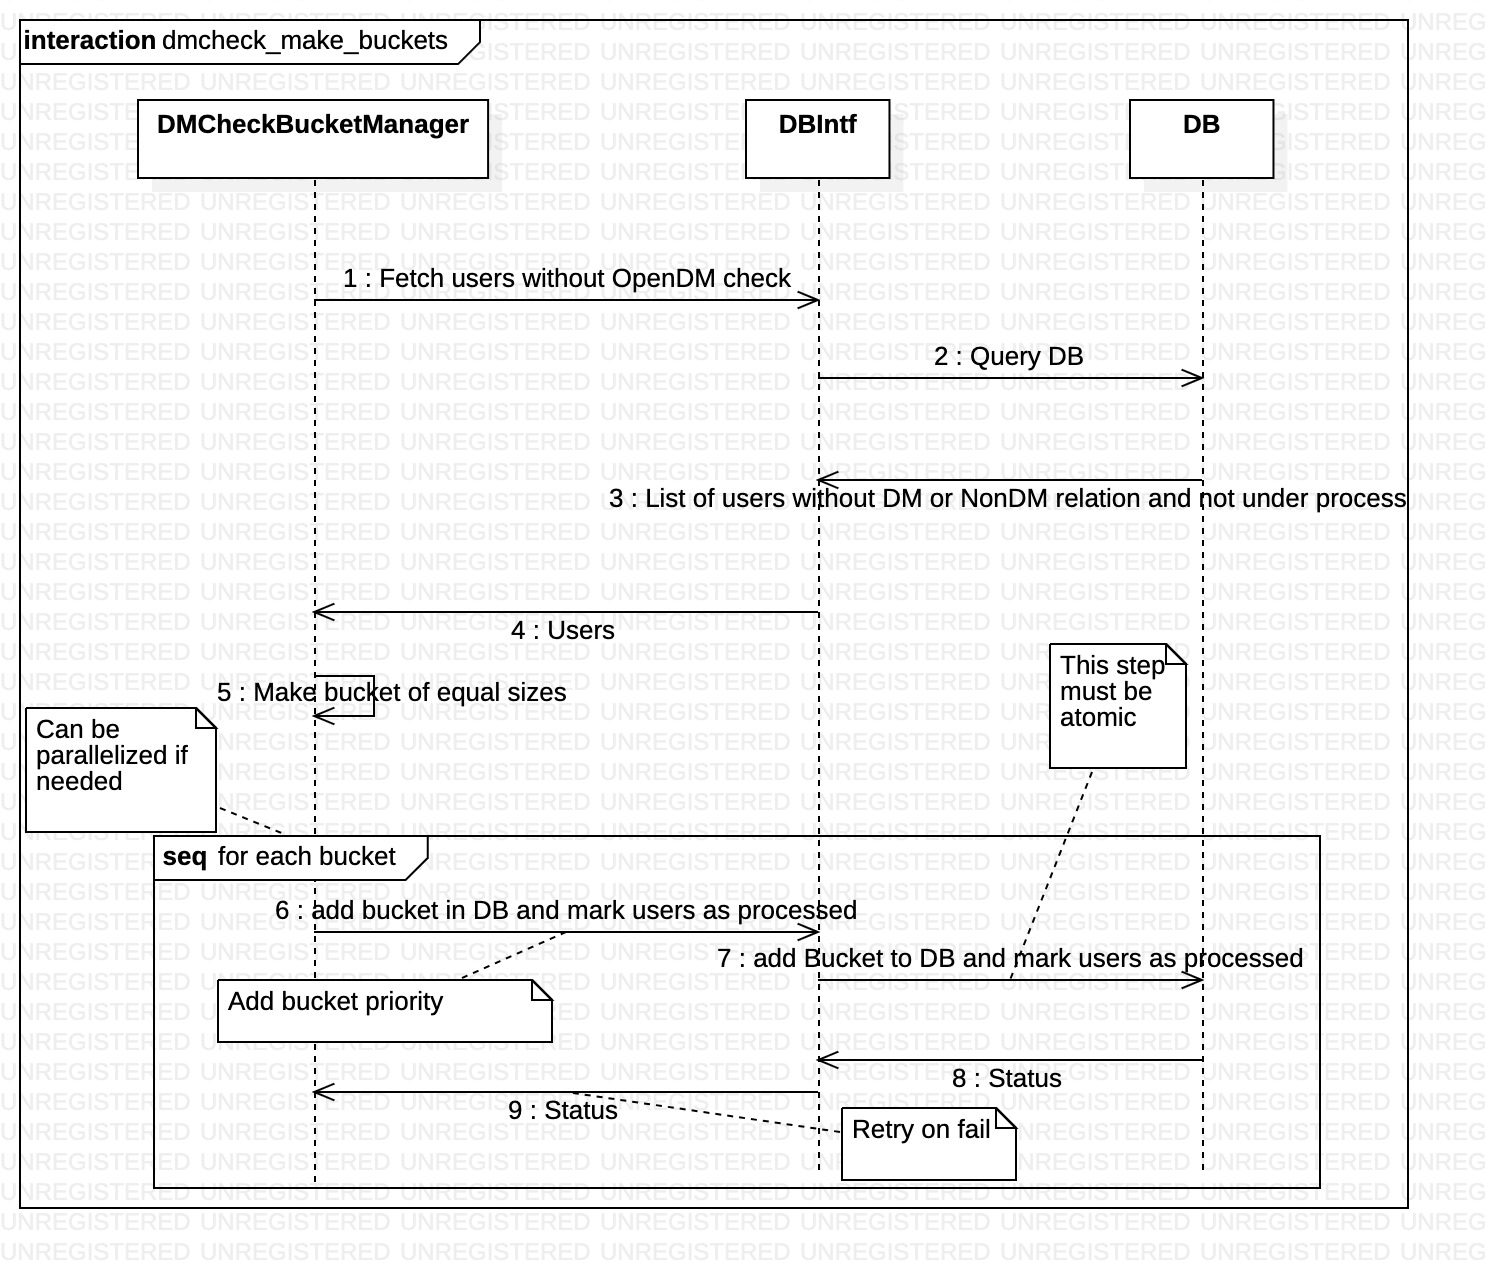
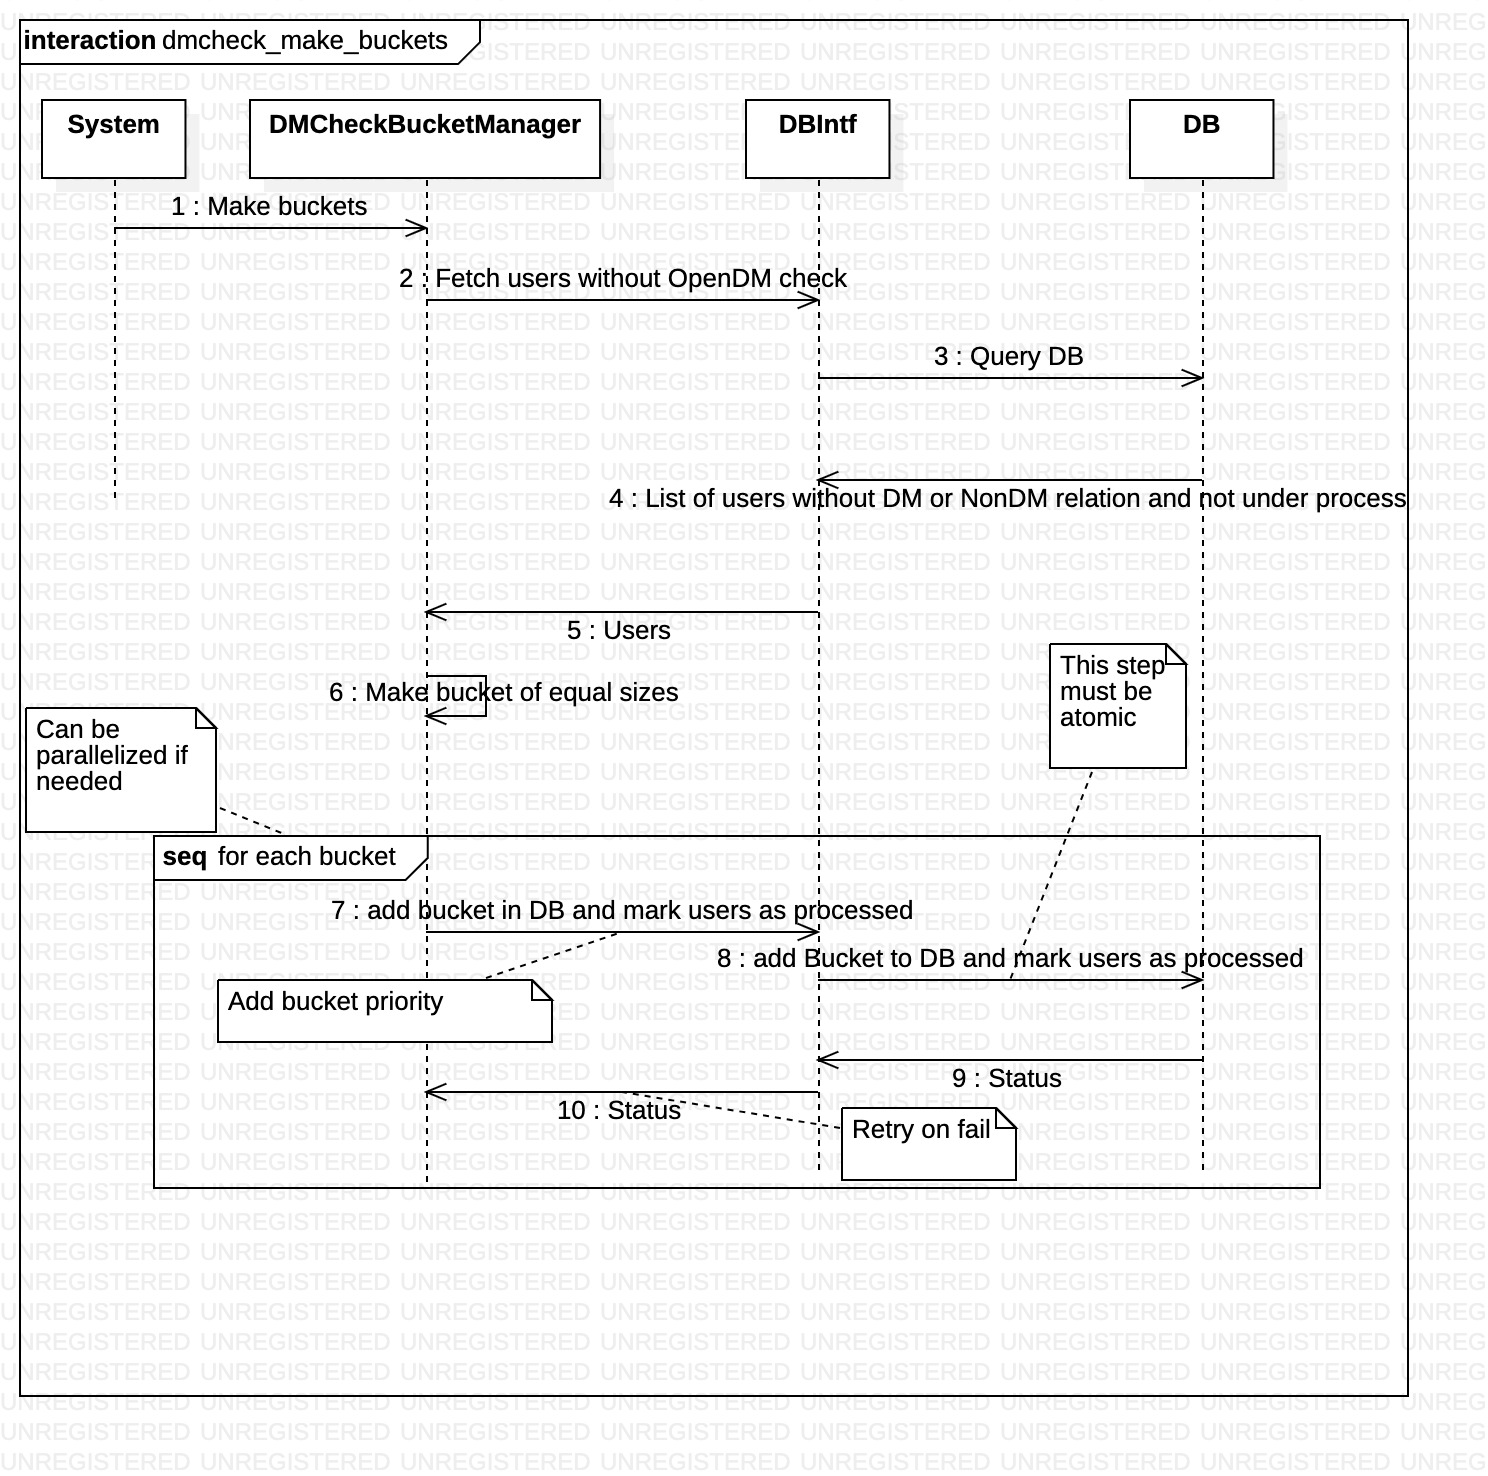
updated design diagram
Design diagram for assigning buckets to clients

diff --git a/docker/design/dmcheck-parallel/dmcheck_design.md b/docker/design/dmcheck-parallel/dmcheck_design.md
@@ -125,4 +125,8 @@ To avoid this condition at all, we can first mark the bucket as dead and after s
 ####  6.2.1. <a name='Classdiagram'></a>Class diagram
 ![image info](./data/DMCheckBucketManagerClasses.jpg)
 ####  6.2.2. <a name='Sequencediagram-1'></a>Sequence diagram
+
+##### Making bucket
 ![image info](./data/dmcheck_make_buckets.jpg)
+##### Assigning buckets to client
+![image info](./data/AssignBucketsToClients.jpg)
